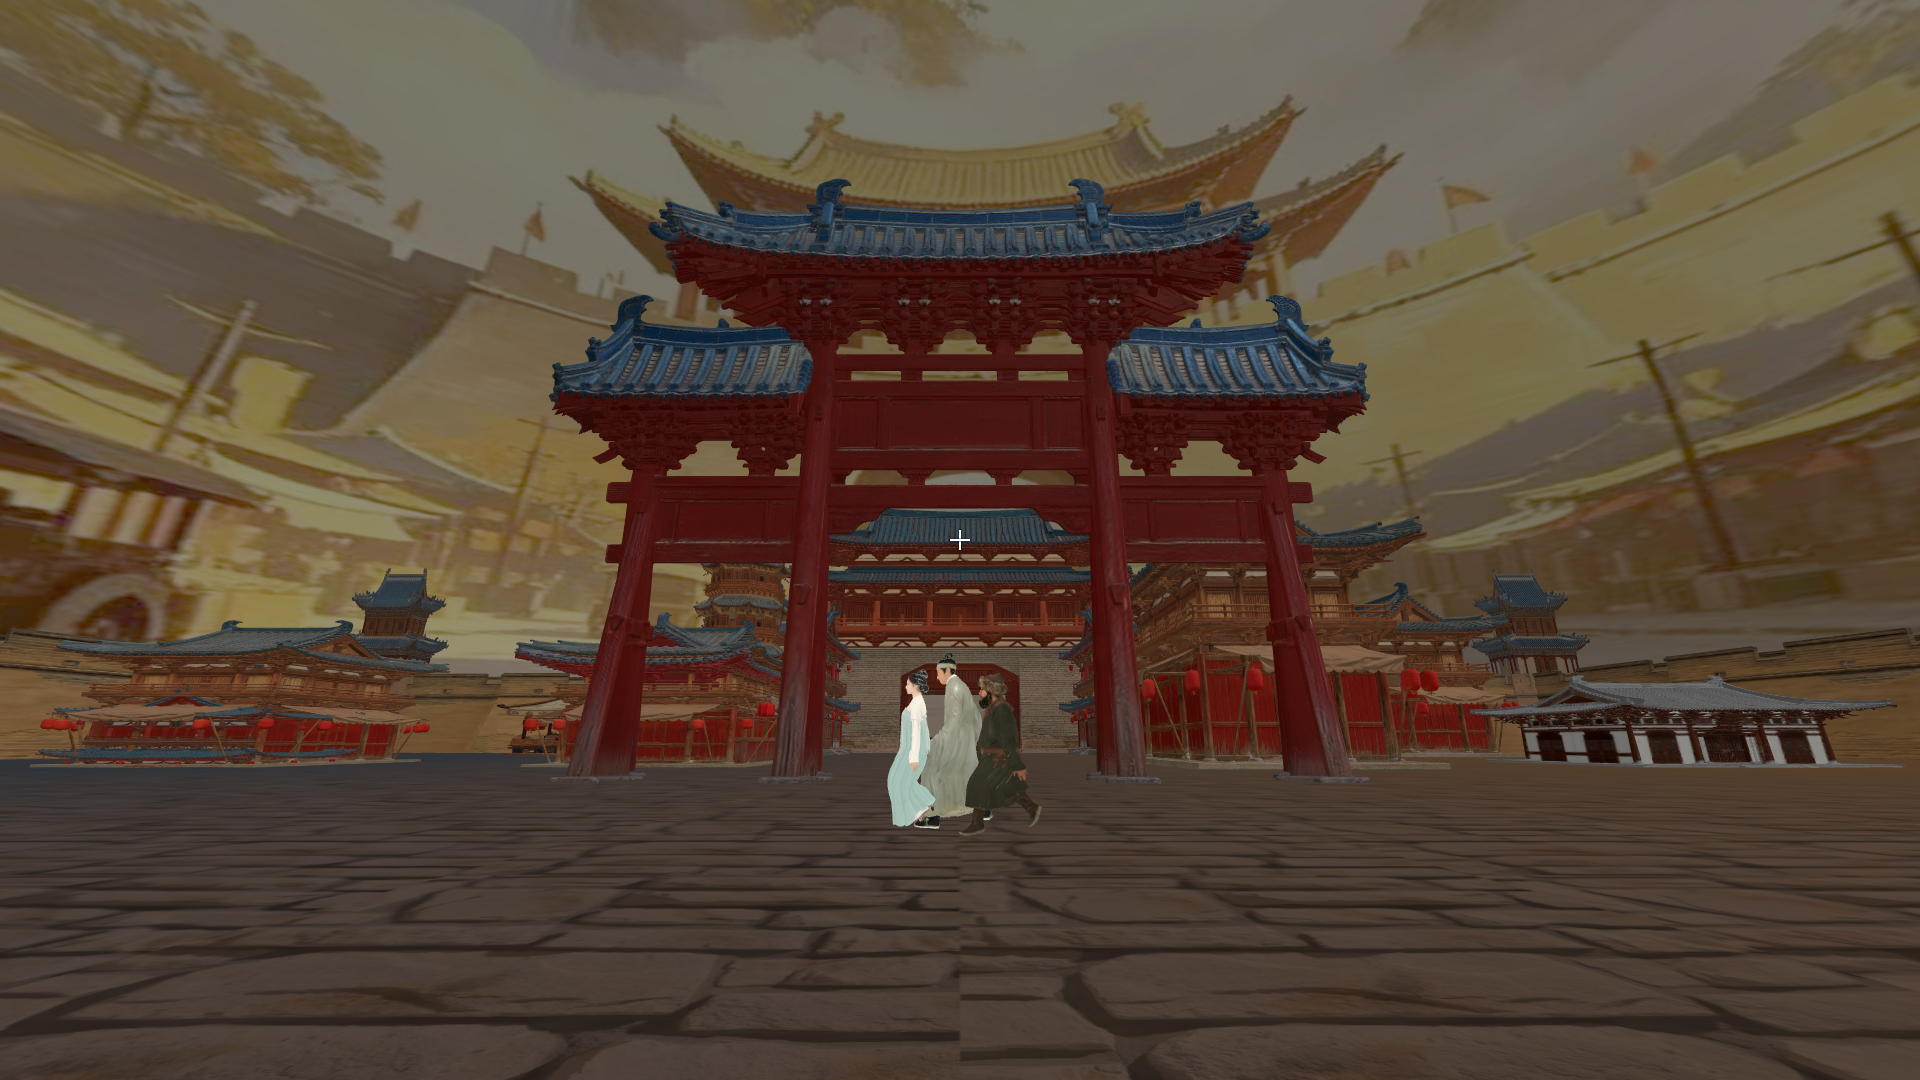
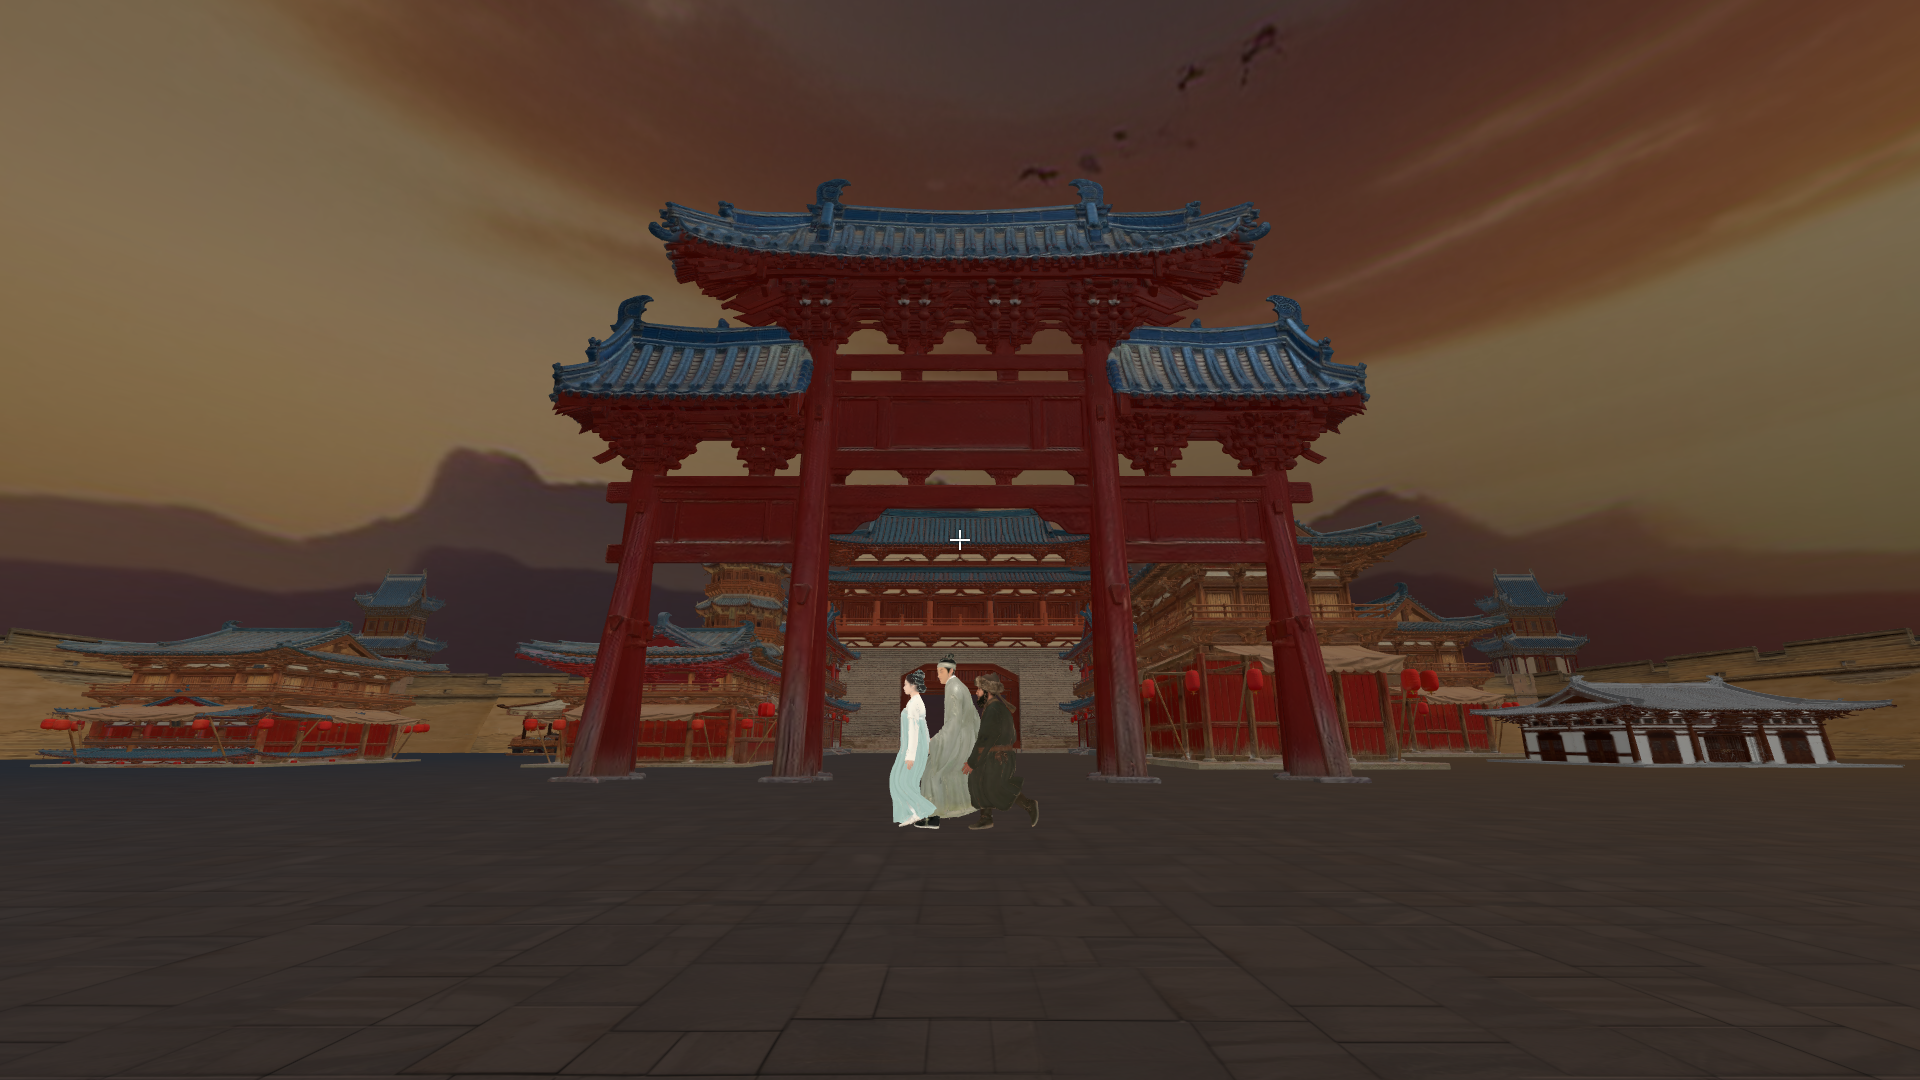
feat: v3 视觉升级 — AI 生成地砖/天空穹顶/首页横版视频 + 10 张新截图
- 场景地面：唐长安御道青石方砖 / 坊间石板（SDXL-Lightning 生成，可平铺）
- 天空穹顶：暮色云海+长安城郭剪影 / 城西青绿夜空（2:1 全景）
- 首页背景：AI 生成宫阙夜景/朱雀大街/城西槐院三图合成 25s 循环视频
- screenshots 更新为 v3 实机图（新地砖/新天空/新首页视频/六位人物对话卡）
- docs/texture-design.md：素材 prompt/参数/替换对照/回退说明

diff --git a/screenshots/截图说明.md b/screenshots/截图说明.md
@@ -1,25 +1,25 @@
-# 《天阙诗都·越长安——上国诗章，长安之上》运行截图说明（v2）
+# 《天阙诗都·越长安——上国诗章，长安之上》运行截图说明（v3）
 
 > 作品名：**天阙诗都·越长安——上国诗章，长安之上**（内部名：越长安）
-> 截图版本：**v2**（新对话内容 + 全新对话卡片 UI + 新增王维/胡商/卖花女 3 位 NPC），2026-10-22 16:5x 采集
-> 截图来源：**run-submit 提交版**（three.js/gsap/ui/GLB 全本地化，断网可运行），1920×1080 PNG，共 10 张
+> 截图版本：**v3**（新地面/新天空贴图 + 新横版首页视频；对话内容与对话卡片 UI 沿用 v2 终版），2026-10-22 22:4x 采集
+> 截图来源：**run-submit 提交版**（three.js/gsap/ui/新贴图/新视频/GLB 全本地化，断网可运行），1920×1080 PNG，共 10 张
 > 采集方式：Playwright + Chrome 真实打开 `http://127.0.0.1:5189/3Dprogram_3.1.html`，脚本化交互（点击场景 → 跳过书法 → 第一人称机位 → 右键射线交互 → 点击剧情选项）后 viewport 截图
-> 配套：[`manifest.json`](manifest.json)（机读清单）｜[`contact-sheet.jpg`](contact-sheet.jpg)（联系表）｜候选：[`candidates-v2/`](candidates-v2)（53 张过程图）｜v1 旧图归档：[`candidates-v1/`](candidates-v1)
+> 配套：[`manifest.json`](manifest.json)（机读清单）｜[`contact-sheet.jpg`](contact-sheet.jpg)（联系表）｜候选：[`candidates-v2/`](candidates-v2)（本次 v3 采集）｜前版归档：[`candidates-v2-prev/`](candidates-v2-prev)（v2 视觉版）、[`candidates-v1/`](candidates-v1)（v1）
 
 ## 一、10 张交付截图
 
 | 序号 | 文件名 | 怎么到达 | 画面内容 | 证明什么功能 |
 | --- | --- | --- | --- | --- |
-| 1 | `01-开场-场景选择界面.png` | 本地服务启动后打开主页，首屏即场景选择界面 | 盛唐夜景动画背景视频 + 青褐渐变；两枚锥形星芒场景按钮（长安城西/长安三万里·朱雀大街） | 场景选择入口、视频背景、GSAP 星芒动画；页面标题为新作品名，交付版仅两条唐诗主线 |
-| 2 | `02-朱雀大街全景-长安三万里.png` | 点「长安三万里·朱雀大街」→ 跳过书法 → 3D 场景中轴机位 (0,18,90) 看 (0,130,-300) | 朱红过街门楼、石板御道、两侧唐式楼阁/灯笼商铺/东市建筑群，街上有岑参/胡商/卖花女 NPC | Three.js 实时 3D 渲染 + 61 GLB 资产 + 第一人称漫游的城市纵深 |
-| 3 | `03-过街门楼-城门牌楼.png` | 相机推进至牌楼下 (0,16,-80) 仰视 (0,110,-215) | 朱红三间四柱过街门楼、蓝瓦飞檐斗拱，门内城墙门与楼阁 | 3D 建筑细节 + 自由视角 + 建筑可右键交互（长安物语旁白） |
-| 4 | `04-宝塔楼阁-东市塔楼.png` | 相机朝向东市塔楼 (-200,145,-555) 仰拍 | 多层塔式楼阁全景 + 牌楼朱柱 + 灯笼商铺 + 城墙门 | 宝塔/楼阁关键资产 + 多模型同屏 + 唐长安建筑美术风格 |
+| 1 | `01-开场-场景选择界面.png` | 本地服务启动后打开主页，首屏即场景选择界面 | **新版横版首页背景视频**（pic/vd/selector-bg.mp4，1920×1080 / 25s / 2.6MB，A→B→C→A 推拉+xfade 循环，全屏 cover 不变形，A 段为长安宫阙夜景）+ 两枚锥形星芒场景按钮 | 场景选择入口 + 新版横版首页视频（全屏 cover、循环播放）+ GSAP 星芒动画；页面标题为新作品名 |
+| 2 | `02-朱雀大街全景-长安三万里.png` | 点「长安三万里·朱雀大街」→ 跳过书法 → 3D 场景中轴机位 (0,18,90) 看 (0,130,-300) | 朱红过街门楼、**新铺御道青石方砖（ground-court-01，repeat 40×40）**、两侧唐式楼阁/灯笼商铺/东市建筑群，**背景为新的暮色天空穹顶（sky-dusk-01：晚霞暖金/云海/远山与城郭剪影/飞鸟）**；街上可见岑参/胡商/卖花女 NPC | Three.js 实时 3D 渲染 + 61 GLB 资产 + 新地砖/新天空贴图 + 第一人称漫游的城市纵深 |
+| 3 | `03-过街门楼-城门牌楼.png` | 相机推进至牌楼下 (0,16,-80) 仰视 (0,110,-215) | 朱红三间四柱过街门楼、蓝瓦飞檐斗拱，门内城墙门与楼阁；背景为新的暮色天空 | 3D 建筑细节 + 自由视角 + 建筑可右键交互（长安物语旁白） |
+| 4 | `04-宝塔楼阁-东市塔楼.png` | 相机朝向东市塔楼 (-200,145,-555) 仰拍 | 多层塔式楼阁全景 + 牌楼朱柱 + 灯笼商铺 + 城墙门；脚下新御道地砖、背景新暮色天空 | 宝塔/楼阁关键资产 + 多模型同屏 + 唐长安建筑美术风格 |
 | 5 | `05-剧情引入-竖排书法打字机.png` | 返回场景选择 → 点「长安城西」→ 进入 3D 场景前的竖排书法打字机第 1 页 | 左侧竖排书法逐字显示「同年的长安城西」，背景为夜长安灯火/孔明灯/烟花演示视频（pic/vd/1.3.mp4） | 关卡/剧情引入动画（竖排书法打字机 + 视频背景）+ 游戏化教学流程 |
 | 6 | `06-诗人对话卡片-岑参.png` | 朱雀大街走近岑参 NPC → 准星对准 → **鼠标右键**触发对话 | **全新对话卡片**：绢本长卷卡面 + 鎏金细框 + 左侧竖排名牌「岑参」+ 7 条笺纸选项条 + 朱印关闭钮 + 墨晕遮罩；卡片上方可见岑参与胡商、卖花女 NPC | 右键射线交互 + 重构后对话内容（岑参 15 节点/1528 字）+ 新对话卡片 UI（卡面/竖排名牌/选项条/入场动画） |
 | 7 | `07-对话卡片-胡商.png` | 朱雀大街准星对准新增 NPC 胡商 → 右键触发 | 竖排名牌「胡商」+ 文本「朱雀大街上，一个高鼻深目的胡商牵着两匹骆驼……」+ 3 条选项；胡商与岑参、卖花女同框 | 新增 NPC 胡商可交互（6 节点/509 字），丝路/商贸视角的「长安物语」 |
 | 8 | `08-对话卡片-卖花女.png` | 朱雀大街准星对准新增 NPC 卖花女 → 右键触发 | 竖排名牌「卖花女」+ 文本「坊墙下，一个荆钗布裙的姑娘守着两只竹篮，篮里是带露的杏花……」+ 3 条选项 | 新增 NPC 卖花女可交互（5 节点/439 字），平民视角的春日长安 |
-| 9 | `09-长安城西-储光羲对话卡片.png` | 进入「长安城西」场景，走近储光羲 NPC（青绿官袍）→ 右键触发 | 竖排名牌「储光羲」+ 文本「清静巷内，几株老槐浓荫蔽日……望着院中飘落的槐花」+ 6 条选项（含新增「大人可羡辋川之隐？」） | 第二场景 + 储光羲独立剧情线（13 节点/1139 字）+ 双诗人双视角；「辋川之隐」选项串联王维线 |
-| 10 | `10-长安城西-王维对话卡片.png` | 「长安城西」槐院场景准星对准新增 NPC 王维（52 岁王维静态模型）→ 右键触发 | 竖排名牌「王维」+ 文本「槐院深处，一位青衫中年人倚竹而立，指间没有茶，只有一片落叶……」+ 5 条选项 | 新增诗人 NPC 王维可交互（8 节点/631 字，辋川/诗中有画主题），与储光羲「仕与隐」互文，六位人物对话体系 |
+| 9 | `09-长安城西-储光羲对话卡片.png` | 进入「长安城西」场景，走近储光羲 NPC（青绿官袍）→ 右键触发 | 竖排名牌「储光羲」+ 文本「清静巷内，几株老槐浓荫蔽日……」+ 6 条选项（含「大人可羡辋川之隐？」）；地面为新石板贴图（ground-stone-01）、天空为新城夜晚空（sky-night-01） | 第二场景 + 储光羲独立剧情线（13 节点/1139 字）+ 双诗人双视角；「辋川之隐」选项串联王维线 |
+| 10 | `10-长安城西-王维对话卡片.png` | 「长安城西」槐院场景准星对准新增 NPC 王维（52 岁王维静态模型）→ 右键触发 | 竖排名牌「王维」+ 文本「槐院深处，一位青衫中年人倚竹而立，指间没有茶，只有一片落叶……」+ 5 条选项；地面新石板、天空新城夜晚空 | 新增诗人 NPC 王维可交互（8 节点/631 字，辋川/诗中有画主题），与储光羲「仕与隐」互文，六位人物对话体系 |
 
 ## 二、v2 新对话卡片 UI（06—10 张共同展示）
 
@@ -35,13 +35,27 @@
 | 项 | 结果 |
 | --- | --- |
 | 两场景 | ✅ 长安三万里·朱雀大街 / 长安城西 均可进入，书法→3D 画布正常 |
-| 3D 渲染 | ✅ 朱雀大街 13 个 GLB 全加载（59s）；城西 6 个 GLB 全加载（42s）；**0 失败、0 个 404** |
+| 3D 渲染 | ✅ 朱雀大街 13 个 GLB 全加载（40s）；城西 6 个 GLB 全加载（30s）；**0 失败、0 个 404**；新地面/新天空贴图均 200、无 texture 404 |
+| 首页视频 | ✅ 新版横版 selector-bg.mp4：1920×1080、readyState=4、playing、loop、muted、`object-fit:cover`，显示尺寸 1920×1080（naturalRatio=displayedRatio=1.778，不变形无留边） |
 | 六位人物对话 | ✅ 岑参(7 选项)/胡商(3)/卖花女(3)/过街门楼(1)（场景一）；储光羲(6)/王维(5)（场景二），全部右键射线触发成功 |
 | 新对话卡片 UI | ✅ 卡面/竖排名牌/笺纸选项条/入场动画/墨晕遮罩均生效；正文 pre-line 诗作多行正常 |
 | 新对话文本 | ✅ 终版 book.js（sha256 `3677080E…740FA1`）：总正文 6494 字 + 选项 914 字；含「游倡门」「行行潘生赋」诗作订正 |
 | 控制台 | ✅ 0 个 pageerror、0 个致命 console error |
-| 资源本地化 | ✅ 无 CDN 依赖；三维资源与卡片素材全部本地 200（可断网运行） |
+| 资源本地化 | ✅ 无 CDN 依赖；三维资源、卡片素材、新贴图、新首页视频全部本地 200（可断网运行；视频失败有静态图回退） |
 | 无后端 | ✅ AI 自由对话为可选增强（node_end 输入框），未启动后端不影响漫游/剧情/选项（v1 已实测，v2 未改该逻辑） |
+
+## 三之二、v3 贴图 / 天空 / 首页视频更新（相对 v2）
+
+| 项 | 旧 | 新 | 集成参数 |
+| --- | --- | --- | --- |
+| 朱雀大街地面 | `grey_zhuankuai.jpg`（碎石墙样式） | `pic/textures/ground-court-01.jpg`（1024²，可平铺，御道青石方砖） | repeat 40×40 + `colorSpace=SRGBColorSpace` |
+| 城西地面 | `grey_zhuankuai.jpg` | `pic/textures/ground-stone-01.jpg`（1024²，可平铺，石板+夯土混铺） | repeat 55×55 + SRGB |
+| 朱雀大街天空穹顶 | `t1.jpg`（城门插画） | `pic/textures/sky-dusk-01.jpg`（2048×1024 全景，暮色暖金/云海/远山城郭剪影，底边=地平线） | repeat(1,1) + SRGB |
+| 城西天空穹顶 | `t1.jpg` | `pic/textures/sky-night-01.jpg`（2048×1024 全景，青蓝暮夜/星月/远山） | repeat(1,1) + SRGB |
+| 首页背景 | `pic/vd/main.mp4`（竖版 1080×2400） | `pic/vd/selector-bg.mp4`（横版 1920×1080 / 25s / 2.6MB，静音循环） | `#selector-bg-video` 全屏 `object-fit:cover` + poster（selector-bg-01.jpg）+ 播放失败回退静态图 |
+
+- 旧素材全部保留，可回退：把 4 处贴图路径改回 `grey_zhuankuai.jpg`/`t1.jpg`、视频源改回 `main.mp4` 即可。
+- 设计说明见 `docs/texture-design.md`；素材清单 `pic/textures/manifest.json`，平铺/视频抽帧预览 `pic/textures/preview/`。
 
 ## 四、合规与交付口径
 

diff --git a/docs/texture-design.md b/docs/texture-design.md
@@ -1,0 +1,59 @@
+# 《天阙诗都·越长安》场景贴图 / 首页背景设计说明
+
+> 任务：用本地 SDXL-Lightning 重做「地砖 / 天空穹顶 / 首页视频」并补充新纹理。
+> 产出目录：`run/3dmod_and_pic/pic/textures/`（图片 + manifest + preview）与 `run/3dmod_and_pic/pic/vd/selector-bg.mp4`。
+> **不修改 `book.js` / `3Dprogram_3.1.html`**（集成由 project-runner 执行）；**旧素材全部保留**可回退。
+
+## 1. 替换对照表（旧 → 新）
+
+| 旧素材 | 旧规格/用途 | 新素材 | 新规格 | 集成建议 |
+| --- | --- | --- | --- | --- |
+| `pic/grey_zhuankuai.jpg` | 1078×1048 碎石墙，`book.js` 两处地面网格 `repeat(50,50)`（~L53 / ~L686） | `pic/textures/ground-court-01.jpg`（场景 one 朱雀大街）<br>`pic/textures/ground-stone-01.jpg`（场景 two 城西） | 1024×1024，可平铺 | 仅替换两处纹理 URL；`repeat(50,50)` 可保留（新图每贴图约 8×8 块方砖，匹配现有尺度），微调推荐 40—60 |
+| `pic/t1.jpg` | 2725×1538 城门插画，两处巨型半球（r=150/1500）天空穹顶（~L90 / ~L723） | `pic/textures/sky-dusk-01.jpg`（场景 one）<br>`pic/textures/sky-night-01.jpg`（场景 two） | 2048×1024（2:1 全景） | 仅替换 URL；贴图**底边对齐地平线**；横向环绕接缝已做过渡；若半球 UV 需要可设 `wrapS=RepeatWrapping`、`rotation.y` 微调 |
+| `pic/vd/main.mp4` | 1080×2400 竖版动画夜景，`#selector-bg-video` 首页背景 | `pic/vd/selector-bg.mp4` | 1920×1080 / 约 25s / H.264 / 静音 / ≤8MB | 替换 `<source src=…>`；容器样式建议 `object-fit: cover`（旧视频为竖版，新视频为横版 16:9） |
+
+## 2. 素材清单
+
+| 文件 | 尺寸 | 类型 | 用途 |
+| --- | --- | --- | --- |
+| `ground-court-01.jpg` | 1024×1024 | 可平铺 | 朱雀大街御道青石方砖（浅灰青、细缝、微磨痕、均匀俯视光） |
+| `ground-stone-01.jpg` | 1024×1024 | 可平铺 | 城西坊间石板 + 夯土混铺（灰褐、青苔缝隙） |
+| `sky-dusk-01.jpg` | 2048×1024 | 全景（横向环绕） | 盛唐暮色天空：晚霞暖金、云海、远山与城郭（塔/城楼）剪影、飞鸟、低地平线 |
+| `sky-night-01.jpg` | 2048×1024 | 全景（横向环绕） | 城西暮夜：冷青蓝、薄云、星月初升、远山剪影 |
+| `selector-bg-01.jpg` | 1920×1080 | 背景图 | 首页 A：长安宫阙夜景灯笼 |
+| `selector-bg-02.jpg` | 1920×1080 | 背景图 | 首页 B：朱雀大街暮色灯笼 |
+| `selector-bg-03.jpg` | 1920×1080 | 背景图 | 首页 C：城西槐院 / 远山晨雾 |
+| `selector-bg.mp4` | 1920×1080 | 视频（静音循环） | 首页场景选择背景：A→B→C→A 缓慢推拉 + 1s 交叉淡化 |
+| `cloud-layer-01.png` | 1024×512 | RGBA 透明云层 | 额外：可作为 THREE/CSS 叠加氛围层（screen/additive），非替换件 |
+| `water-01.jpg` | 1024×1024 | 可平铺 | 额外：水面涟漪，备用（若后续加水景） |
+
+## 3. 首页视频参数
+
+- 分辨率/帧率：1920×1080 / 24fps；编码 H.264（libx264，`-crf 27 -maxrate 3M`，`+faststart`）；**无音轨**。
+- 时长：由 4 段（A→B→C→A）各 7s + 3 次 1s xfade 合成，**实测 25.0s**；首尾均落在 A 图推近段，`loop` 播放衔接自然。
+- 体积：**实测 2.62MB（≤8MB）**，平均码率约 878kbps。
+- 运动：A 缓慢推近、B 横向平移、C 缓慢拉远、末段 A 轻微漂浮。
+- 重新生成：`node run/3dmod_and_pic/pic/textures/_tools/build_selector_video.cjs`（依赖 WinGet 安装的 ffmpeg 8.1）。
+- 截图预览：`run/3dmod_and_pic/pic/textures/preview/video-frame-1..3.jpg`。
+
+## 4. 生成与后处理说明
+
+- 模型：SDXL base fp16 + SDXL-Lightning 4-step LoRA；4 步、CFG=1.0、EulerDiscreteScheduler(trailing)、`enable_model_cpu_offload`（8GB 显存安全）。
+- Prompt 全部 ≤75 CLIP token（SDXL 文本编码器上限 77；CFG=1.0 时 negative prompt 不生效，约束全部写入正向 prompt）。完整 prompt / seed / 耗时见 `manifest.json`。
+- 平铺处理（地面/水面）：1024² 生成 → **四边环绕融合**（左右边带向对边平均值平滑过渡、上下同法）→ 1024² 可平铺。相比 2×2 镜像拼贴，避免了明显的镜像对称「万花筒」纹；`preview/tiling-*.jpg` 为 2×2 平铺目检图（原始分辨率，避免缩略摩尔纹误判）。
+- 天空处理（`_tools/fix_sky.py`，可从 `_raw` 幂等重跑）：1024×512 生成 → **横向环绕接缝渐变** → 放大 2048×1024 → **裁掉生成图下方的水面倒影**，只保留天空 + 横向压缩/压暗/虚化的远山与塔楼剪影带（底部 120px 渐隐合成，无硬接缝），保证穹顶贴图「天空为主、剪影贴地平线」。
+- 首页背景：1344×768 生成 → Lanczos 放大到 1920×1080。其中 `selector-bg-02` 生成结果带有 2 个远景行人剪影，已用 OpenCV TELEA inpainting 移除（原处有极轻微修补痕迹，1920 背景 + 视频运动中不可见）。
+- 目检：`preview/contact-sheet.jpg`（全部素材总览 + 视频抽帧）；逐张已检查无文字/无正脸人物/无现代物/无明显接缝。`selector-bg-02` 墙面招幌保留少量装饰性墨迹纹样（非可读正文），如需绝对无字可改用 `selector-bg-01` 作为 B 段。
+
+## 5. 回退说明
+
+- 旧素材 **未删除**：`pic/grey_zhuankuai.jpg`、`pic/t1.jpg`、`pic/vd/main.mp4` 均仍在原位。
+- 回退方法：把 `book.js`（两处地面、两处半球）与 `3Dprogram_3.1.html`（视频 source）中的路径改回旧文件名即可，无需其它改动。
+- 新素材均在 `pic/textures/` 与 `pic/vd/` 下，不改动原有文件，可随时并行对比。
+
+## 6. 预览与清单
+
+- Contact sheet：`run/3dmod_and_pic/pic/textures/preview/contact-sheet.jpg`
+- 平铺目检：`preview/tiling-ground-court-01.jpg`、`preview/tiling-ground-stone-01.jpg`、`preview/tiling-water-01.jpg`
+- 视频抽帧：`preview/video-frame-1.jpg` / `-2` / `-3`
+- 机器可读清单：`run/3dmod_and_pic/pic/textures/manifest.json`（含 prompt/seed/尺寸/耗时/替换映射/回退信息）
